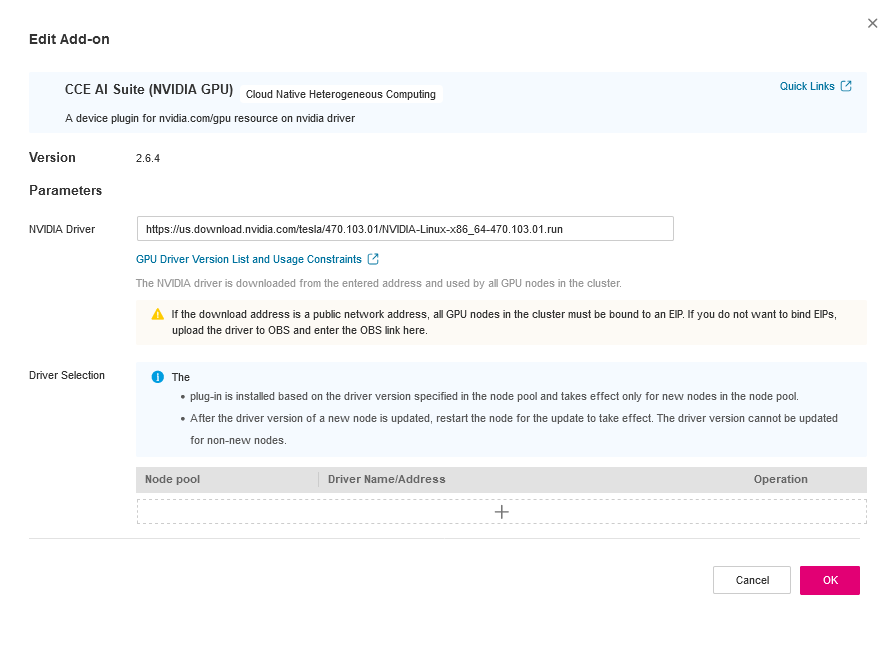
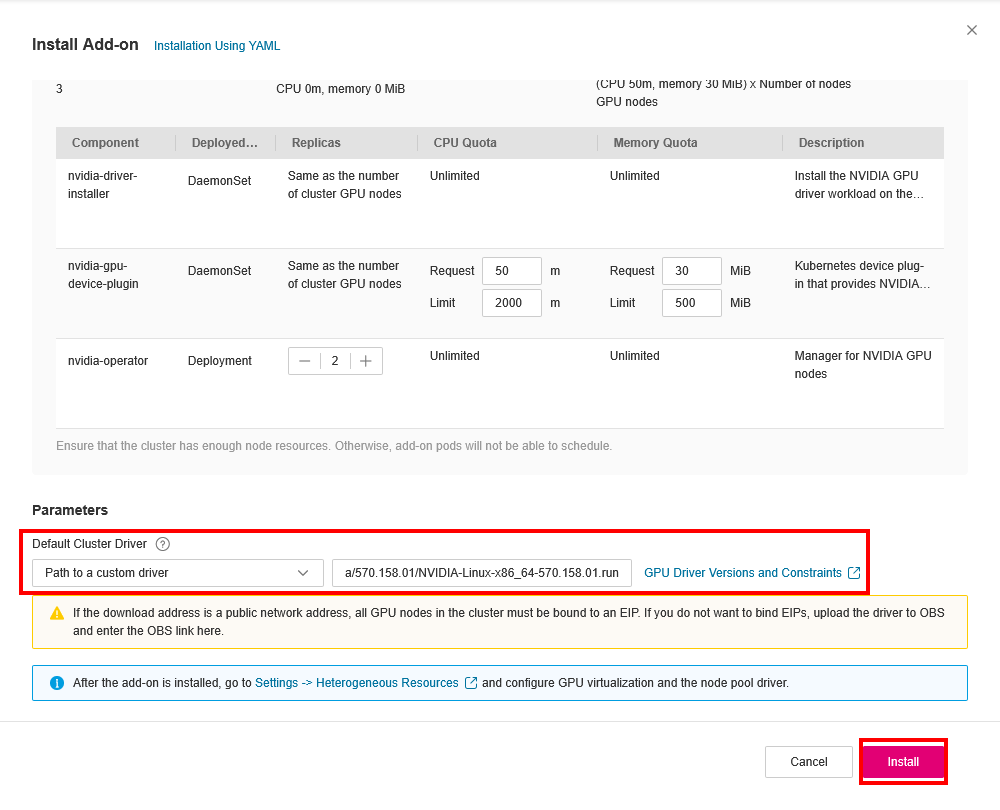
fix: added nvidia driver download center and clarification about the driver selection #287

diff --git a/docs/blueprints/by-use-case/ai/deploy-the-nvidia-gpu-operator-on-cce.md b/docs/blueprints/by-use-case/ai/deploy-the-nvidia-gpu-operator-on-cce.md
@@ -55,8 +55,30 @@ From sidebar select *Add-ons* and install the **CCE AI Suite (NVIDIA GPU)**.
     </center>
 
 ### Plugin Configuration
+When configuring the CCE AI Suite, you must provide a download link for the NVIDIA driver. 
 
-For more information see [CCE AI Suite (NVIDIA GPU)](https://docs.otc.t-systems.com/cloud-container-engine/umn/add-ons/cloud_native_heterogeneous_computing_add-ons/cce_ai_suite_nvidia_gpu.html).
+:::caution
+The selected driver must be compatible with both the GPU nodes and the NVIDIA GPU Operator; otherwise, the cluster will not be able to allocate GPU resources. It is crucial to **check for the most compatible driver version on the [NVIDIA GPU Operator Platform Support](https://docs.nvidia.com/datacenter/cloud-native/gpu-operator/latest/platform-support.html)**. You can find and download drivers from the **[NVIDIA Driver](https://www.nvidia.com/download/index.aspx)**.
+:::
+
+
+Follow these steps to find and provide the correct driver download link:
+
+1. **Find a Compatible Driver Version**:
+   - Navigate to the [NVIDIA GPU Operator Platform Support](https://docs.nvidia.com/datacenter/cloud-native/gpu-operator/latest/platform-support.html)
+   - Scroll down to [GPU Operator Component Matrix](https://docs.nvidia.com/datacenter/cloud-native/gpu-operator/latest/platform-support.html#gpu-operator-component-matrix). This table lists the specific component versions, including the **recommended NVIDIA driver versions**, that are tested and supported. For example for the NVIDIA GPU Operator **v25.3.1**, the recommended driver version is **570.158.01**.
+  
+![imag](/img/docs/blueprints/by-use-case/ai/nvidia-operator/driver-version.png)
+
+2. **Get the Driver Download Link**:
+   - Go to the official **[NVIDIA Driver](https://www.nvidia.com/download/index.aspx)** page.
+   - Manually search for the driver by entering your GPU's specifications, such as Product Type (e.g., Tesla), Product Series, Operating System (Linux) based on the node flavor that you are using and click **Find** to search for drivers.
+  ![img](/img/docs/blueprints/by-use-case/ai/nvidia-operator/driver-finding.png)
+   - On the next page search for the **driver version** you identified in the previous step. Once you find the correct driver, click the view button to view the download page. Then right-click the **Download** button and copy the link address. This is the direct download link you will provide to the plugin.
+   ![img](/img/docs/blueprints/by-use-case/ai/nvidia-operator/driver-download.png)
+
+1. **Configure the Plugin**: Paste the driver download link you obtained in previous step into the **Path to custom driver** field of the plugin and click **Install**.
+  
     ![image](/img/docs/blueprints/by-use-case/ai/nvidia-operator/configure-plugin.png)
 
   :::caution
